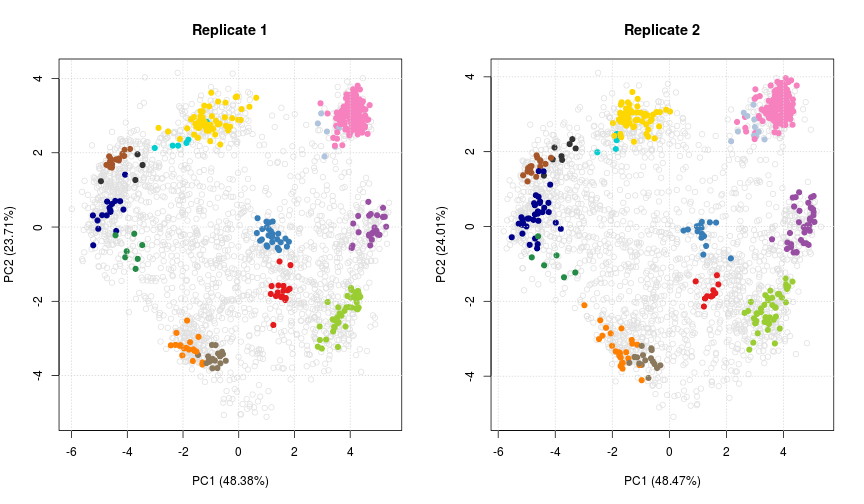
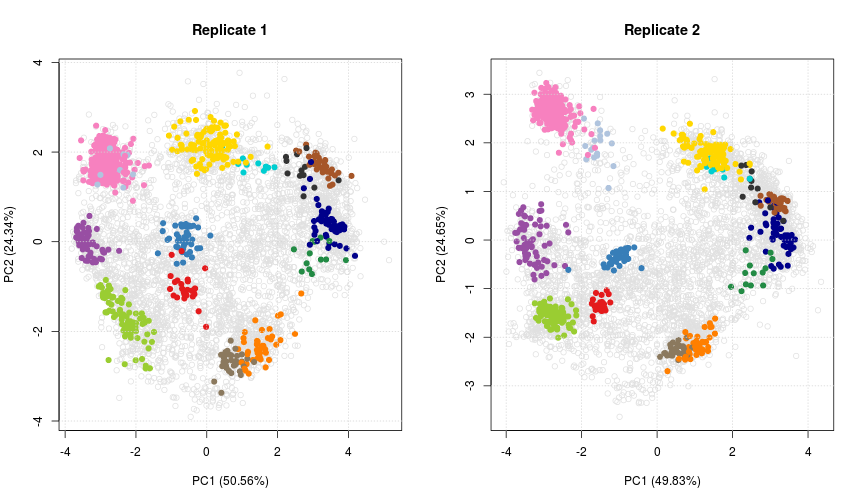
plotDist example

diff --git a/bioc-workflow.md b/bioc-workflow.md
@@ -605,7 +605,7 @@ hyperLOPIT
 ## experimentData: use 'experimentData(object)'
 ## Annotation:  
 ## - - - Processing information - - -
-## Combined [6725,20] and [6268,10] MSnSets Sun Jun 12 12:02:43 2016 
+## Combined [6725,20] and [6268,10] MSnSets Tue Jun 14 16:14:37 2016 
 ##  MSnbase version: 1.19.3
 ```
 
@@ -663,10 +663,10 @@ hyperLOPIT
 ## experimentData: use 'experimentData(object)'
 ## Annotation:  
 ## - - - Processing information - - -
-## Combined [6725,20] and [6268,10] MSnSets Sun Jun 12 12:02:43 2016 
-## Subset [6725,20][5032,20] Sun Jun 12 12:02:43 2016 
-## Removed features with more than 0 NAs: Sun Jun 12 12:02:43 2016 
-## Dropped featureData's levels Sun Jun 12 12:02:43 2016 
+## Combined [6725,20] and [6268,10] MSnSets Tue Jun 14 16:14:37 2016 
+## Subset [6725,20][5032,20] Tue Jun 14 16:14:37 2016 
+## Removed features with more than 0 NAs: Tue Jun 14 16:14:37 2016 
+## Dropped featureData's levels Tue Jun 14 16:14:37 2016 
 ##  MSnbase version: 1.19.3
 ```
 
@@ -740,17 +740,29 @@ There are other dimensionality reduction methods available in the
 argument. 
 
 
-**TODO** Mention that there are other dimensionality reduction
-techniques. Advantages, disadvantages? See
+**TODO** Advantages, disadvantages? See
 [this](https://gist.github.com/mikelove/74bbf5c41010ae1dc94281cface90d32)
 very interesting gist with intriguing tSNE examples. This might be
 better to come after markers.
 
 # Markers
 
-In the context of spatial proteomics, a marker protein is defined as a well-known resident of a specific sub-cellular niche in a species *and* condition of interest. Applying this to machine learning (ML), and specifically supervised learning, for the task of protein localisation prediction, markers constitute the labelled training data to use as input to a classification analyses. Defining well-known residents, and obtaining labelled training data for ML analyses can be time consuming, but it is important to define markers that are representative of the multivariate data space and on which a classifier will be trained and generated. *[pRoloc](http://bioconductor.org/packages/pRoloc)* provides a convenience function, `addMarkers`, to directly add markers to a `MSnSet` object, as demonstrated in the code chunk below. These marker sets can be accessed using the `pRolocmarkers()` function. Marker sets are stored as a simple named vector in R, and originate from in-house user-defined spreadsheets or a set of markers from previous published studies. The marker vectors that can be accessed from `pRolocmarkers` are named vectors and to enable mapping between the markers and the `MSnSet` instance it is required that the `featureNames` of the `MSnSet` instance match the `names` of the marker. The mouse dataset used here has Uniprot IDs stored as the `featureNames` (see `head(featureNames(lopit2016))`) and the names of the vector of the mouse markers (`mmus` markers) are also Uniprot IDs (see `head(mrk)` in the code chunk below), so it is straightforward to match names between the markers and the `MSnSet` instance. If the naming between the marker sets and the `MSnSet` dataset are different, one will have to convert and match the proteins according to the appropriate identifier. Sometimes, we find the equivalent entry name, Uniprot ID or accession number is stored with the data, which makes conversion between identifers relatively straightforward. If this is not the case however, there are conversion softwares online available, for example XXX.   
-
-In the code chunk below, we demonstrate how to add markers using `pRolocmarkers` function and then visualise these annotations using the `plot2D` function.
+In the context of spatial proteomics, a marker protein is defined as a
+well-known resident of a specific sub-cellular niche in a species
+*and* condition of interest. Applying this to machine learning (ML),
+and specifically supervised learning, for the task of protein
+localisation prediction, markers constitute the labelled training data
+to use as input to a classification analyses. Defining well-known
+residents, and obtaining labelled training data for ML analyses can be
+time consuming, but it is important to define markers that are
+representative of the multivariate data space and on which a
+classifier will be trained and generated. *[pRoloc](http://bioconductor.org/packages/pRoloc)*
+provides a convenience function, `addMarkers`, to directly add markers
+to a `MSnSet` object, as demonstrated in the code chunk below. These
+marker sets can be accessed using the `pRolocmarkers()`
+function. Marker sets are stored as a simple named vector in R, and
+originate from in-house user-defined sets of markers or from previous
+published studies [@Gatto:2014b]. 
 
 
 ```r
@@ -775,6 +787,16 @@ pRolocmarkers()
 ## Saccharomyces cerevisiae [scer_uniprot]:
 ##  Ids: Uniprot Accession, 259 markers
 ```
+
+These markers can then be mapped to an `MSnSet`'s `featureNames`. The
+mouse dataset used here has Uniprot IDs stored as the `featureNames`
+(see `head(featureNames(lopit2016))`) and the names of the vector of
+the mouse markers (`mmus` markers) are also Uniprot IDs (see
+`head(mrk)` in the code chunk below), so it is straightforward to
+match names between the markers and the `MSnSet` instance using the
+`addMarkers` function.
+
+
 
 ```r
 ## Use mouse markers
@@ -814,14 +836,73 @@ hl <- addMarkers(hl, mrk)
 ##                    4095
 ```
 
+If the naming between the marker sets and the `MSnSet` dataset are
+different, one will have to convert and match the proteins according
+to the appropriate identifier. Sometimes, we find the equivalent entry
+name, Uniprot ID or accession number is stored with the data, which
+makes conversion between identifers relatively straightforward. If
+this is not the case however, conversion can be performed using the 
+*[biomaRt](http://bioconductor.org/packages/biomaRt)*, the Bioconductor
+[annotation resouces](http://bioconductor.org/help/workflows/annotation/Annotation_Resources/)
+or any conversion softwares available online.
+
+We now visualise these annotations along the PCA plot using the
+`plot2D` function. We also use the `addLegend` function to map the
+marker classes to the pre-defined colours. 
+
+
 ```r
 ## Plot mouse markers
 plot2D(hl, fcol = "markers", main = "pRolocmarkers for mouse")
+addLegend(hl, fcol = "markers", where = "bottomleft", cex = .7)
 ```
 
-![plot of chunk addmrkers](figure/addmrkers-1.png)
+![plot of chunk plotmarkers](figure/plotmarkers-1.png)
 
-In general, the Gene Ontology (GO) [@Ashburner:2000], and in particular the cellular compartment (CC) namespace are a good starting point for protein annotation and marker definition. It is important to note however that automatic retrieval of sub-cellular localisation information, from *[pRoloc](http://bioconductor.org/packages/pRoloc)* or elsewhere, is only the beginning in defining a marker set for downstream analyses. Expert curation is vital to check that any annotation added is in the correct context for the the biological question under investigation. 
+The colours have been defined so as to enable to differenciate up to
+30 classes. If more are provided, different character symbols
+(circles, squares, ... and empty and solid symbols) are used. The
+colours and the default plotting characters (solid dots for the
+markers and empty circles for the features of unknown localisation)
+can of course be changed, as described in the `setStockcol` manual
+page.
+
+In general, the Gene Ontology (GO) [@Ashburner:2000], and in
+particular the cellular compartment (CC) namespace are a good starting
+point for protein annotation and marker definition. It is important to
+note however that automatic retrieval of sub-cellular localisation
+information, from *[pRoloc](http://bioconductor.org/packages/pRoloc)* or elsewhere, is only the
+beginning in defining a marker set for downstream analyses. Expert
+curation is vital to check that any annotation added is in the correct
+context for the the biological question under investigation.
+
+Another useful visualisation that relies on marker annotation is the
+representation of the protein profiles occupancy along the gradient
+using the `plotDist` function. While the PCA plot enables to
+efficiently visualise the complete dataset and assess the relative
+separation of different sub-cellular niches, comparing profiles of a
+few marker clusters is useful to assess how exactly they differ (in
+terms of peak fractions, for example). Below, we plot the profile of
+the mitochondrial and peroxisome markers. 
+
+
+
+```r
+par(mfrow = c(2, 1))
+o <- order(hyperLOPIT$Fraction.No)
+cls <- c(Peroxisome = "darkblue", Mitochondrion = "purple")
+for (k in c("Mitochondrion", "Peroxisome")) {
+    plotDist(hyperLOPIT[fData(hyperLOPIT)$markers == k, o],
+             pcol = cls[k])
+    title(main = k)
+}
+```
+
+![plot of chunk plotDist](figure/plotDist-1.png)
+
+
+
+
 
 # Replication
 
@@ -870,19 +951,77 @@ the complete protein occupancy profiles, which are best visualised as
 experiment-wide on a PCA plot. As such, we prefer to focus on the
 direct, qualitative comparison of individual replicate PCA plots,
 assuring that each displays acceptable sub-cellular resolution. Note
-that in the code chunk below, we mirror the y-axis to represent the
+that in the code chunk below, we mirror the x-axis to represent the
 two figures with the same orientation.
 
 
 
 ```r
 par(mfrow = c(1, 2))
-plot2D(hl[hl$replicate == 1], fcol = "SVM.marker.set", main = "Replicate 1")
-plot2D(hl[hl$replicate == 2], fcol = "SVM.marker.set", main = "Replicate 2",
-       mirrorY = TRUE)
+plot2D(hl[, hl$replicate == 1], fcol = "SVM.marker.set", main = "Replicate 1")
+plot2D(hl[, hl$replicate == 2], fcol = "SVM.marker.set", main = "Replicate 2",
+       mirrorX = TRUE)
 ```
 
 ![plot of chunk plot2Drep](figure/plot2Drep-1.png)
+
+Peason correlation
+
+
+```r
+i1 <- exprs(hl[, hl$replicate == 1])
+i2 <- exprs(hl[, hl$replicate == 2])
+pearcor <- cor(t(i1), t(i2))
+pearcor0 <- cor(t(i1[, seq(1, 10, 2)]), t(i2[, seq(1, 10, 2)]))
+mean(diag(pearcor))
+```
+
+```
+## [1] 0.7726258
+```
+
+```r
+mean(diag(pearcor0))
+```
+
+```
+## [1] 0.8853138
+```
+
+
+```r
+data(hyperLOPIT2015ms3r1)
+data(hyperLOPIT2015ms3r2)
+data(hyperLOPIT2015ms3r3)
+
+hll <- MSnSetList(list(hyperLOPIT2015ms3r1,
+                       hyperLOPIT2015ms3r2,
+                       hyperLOPIT2015ms3r3))
+
+ij <- combn(3, 2)
+pc <- apply(ij, 2,
+            function(.ij) {
+                tmp <- suppressMessages(commonFeatureNames(hll[.ij]))
+                diag(cor(t(exprs(tmp[[1]])), t(exprs(tmp[[2]]))))
+            })
+names(pc) <- apply(ij, 2, paste, collapse = ".")
+sapply(pc, summary)
+```
+
+```
+##             1.2     1.3     2.3
+## Min.    -0.8132 -0.7461 -0.9271
+## 1st Qu.  0.6989  0.2450  0.3109
+## Median   0.8321  0.5996  0.6805
+## Mean     0.7726  0.4808  0.5380
+## 3rd Qu.  0.9246  0.7912  0.8684
+## Max.     0.9994  0.9991  0.9995
+```
+
+The third replicate was produce over 1 year after the first two by
+another operator.
+
+- What about classification on different replicates?
 
 # Interactive visualisation
 
